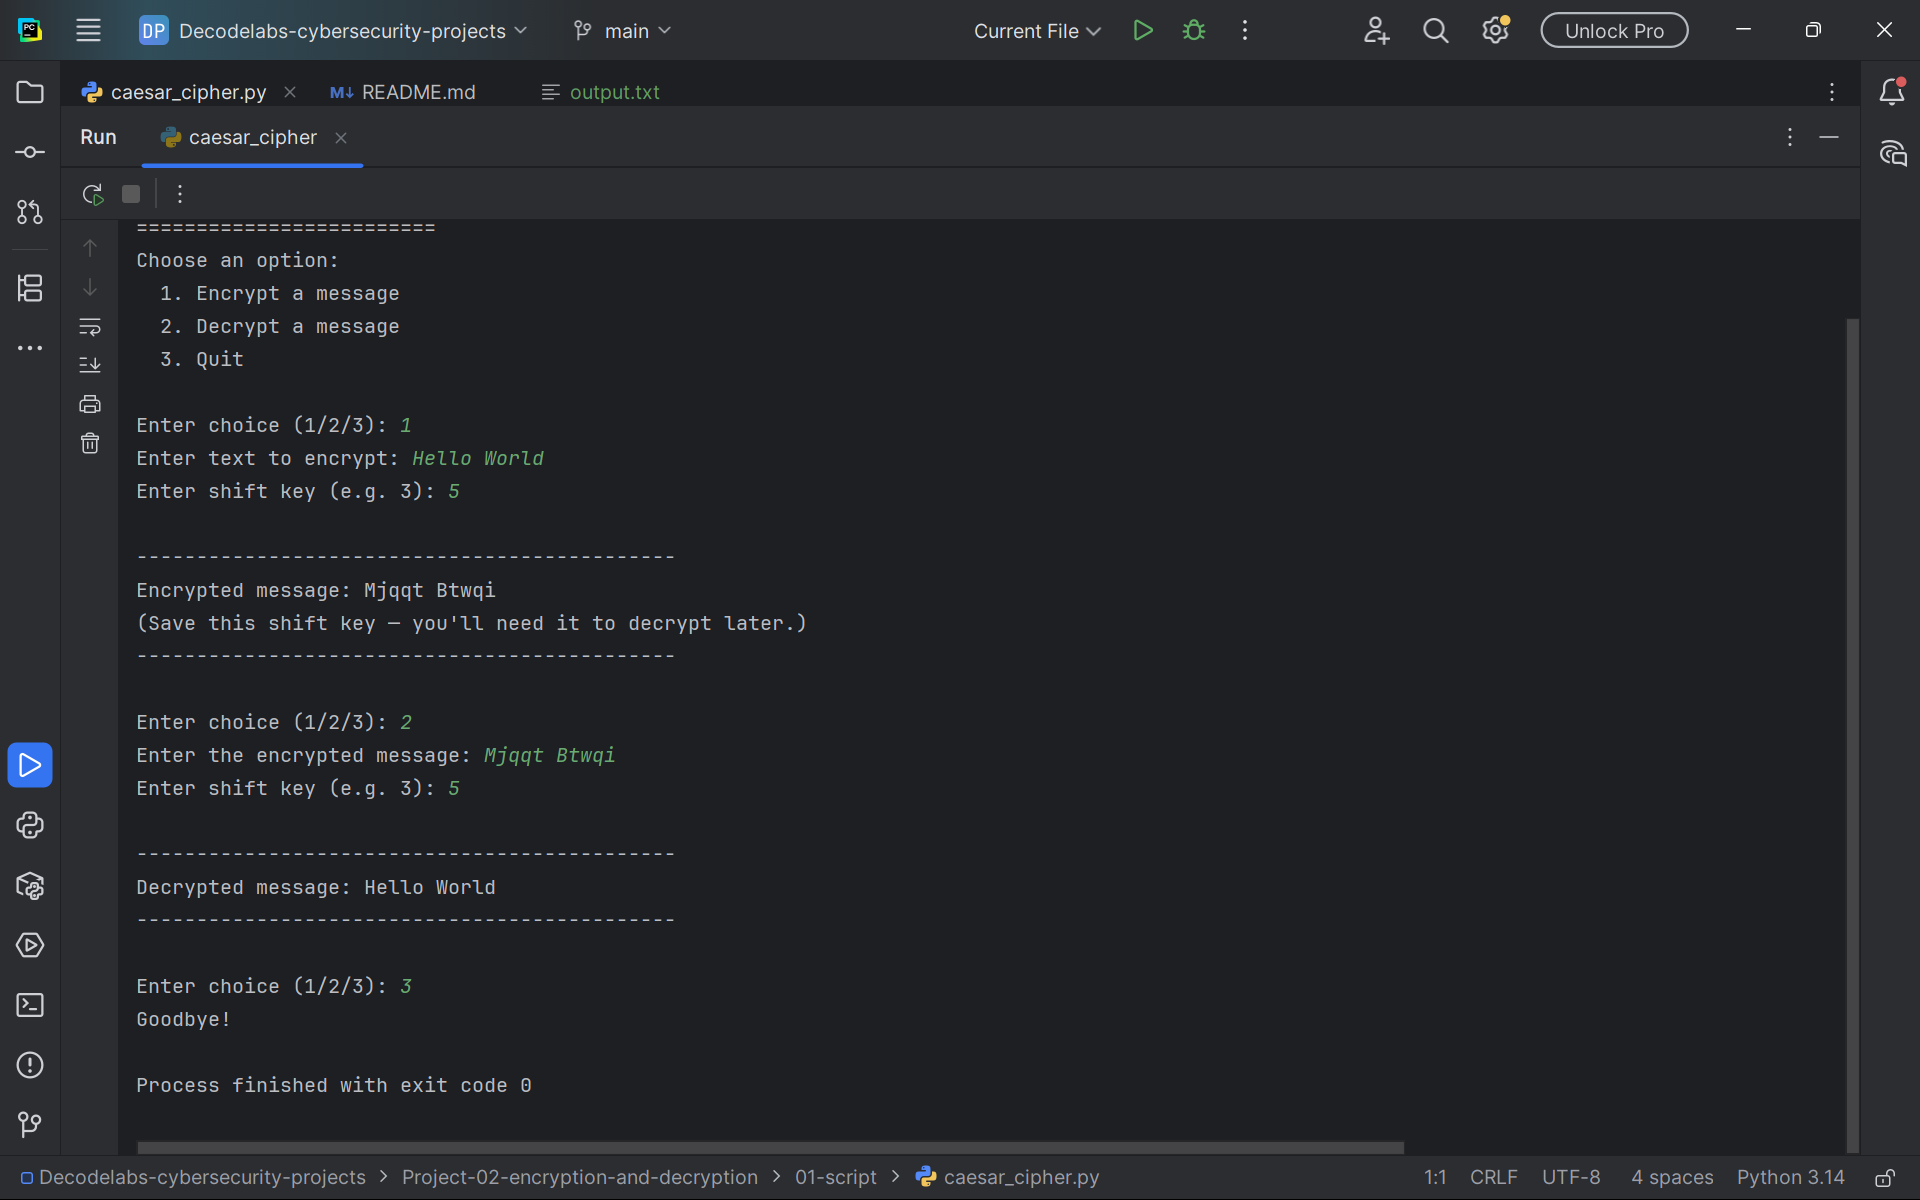
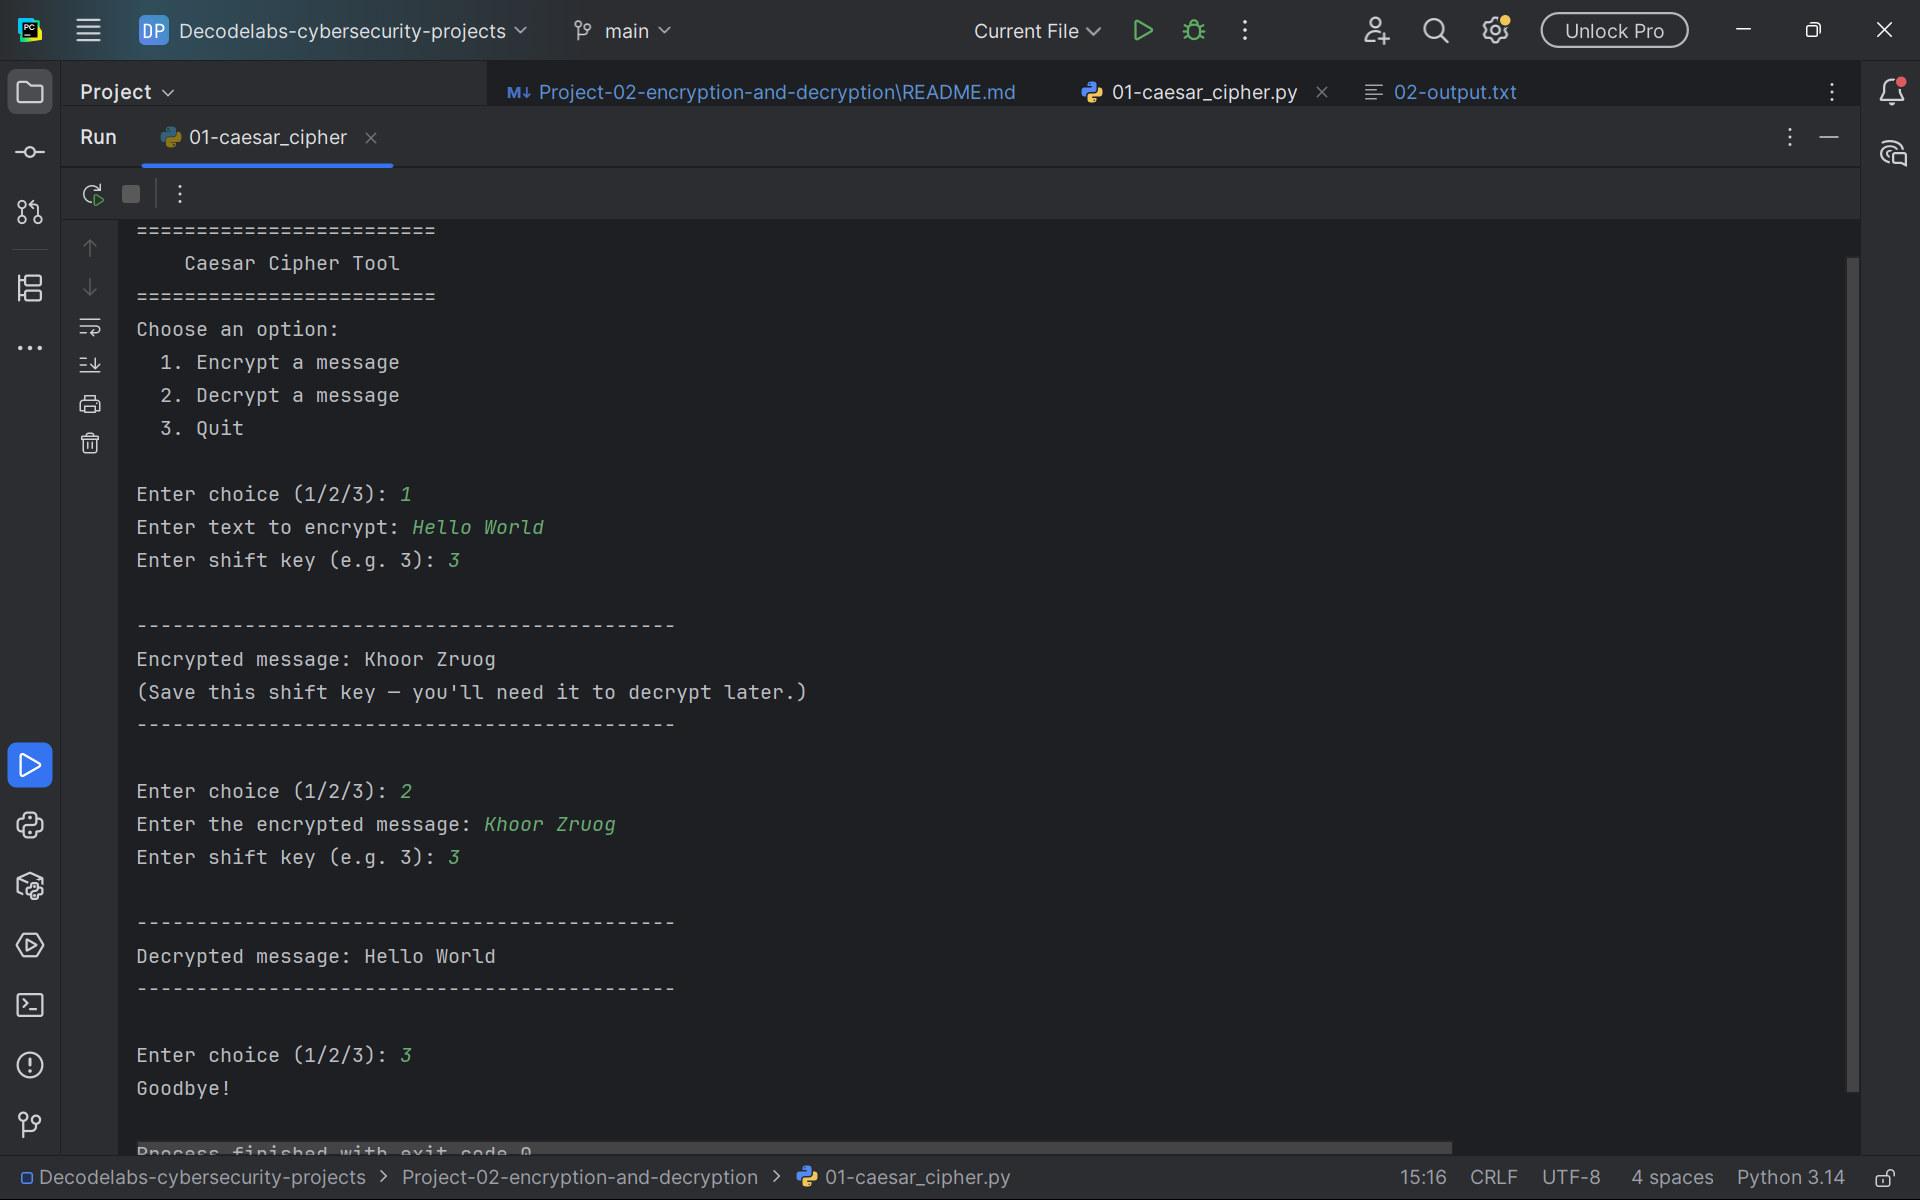
Update README, output, and screenshot for Project 2

diff --git a/Project-02-encryption-and-decryption/README.md b/Project-02-encryption-and-decryption/README.md
@@ -1,0 +1,102 @@
+# Caesar Cipher — Encryption & Decryption 🔐
+
+A Python command-line tool that encrypts and decrypts text using the classic Caesar cipher. This project was built as **Project 2** of the DecodeLabs Cybersecurity Internship (2026 Batch).
+
+## Overview
+
+This tool takes a message and a shift key from the user, then encrypts or decrypts the text by shifting each letter along the alphabet. It's a hands-on introduction to the fundamentals of data confidentiality, transforming readable plaintext into unreadable ciphertext, and reversing the process with the correct key.
+
+## Features
+
+* ✅ Encrypts any message using a user-defined shift key
+* ✅ Decrypts messages back to their original text using the same key
+* ✅ Handles both uppercase and lowercase letters
+* ✅ Leaves spaces, numbers, and punctuation unchanged
+* ✅ Accepts negative shift values as well as positive ones
+* ✅ Validates shift key input, rejecting non-numeric entries
+* ✅ Interactive menu allows multiple encrypt/decrypt operations in one session
+* ✅ Decryption is implemented as the inverse of encryption, avoiding duplicate logic
+
+## How It Works
+
+The checker transforms each letter using modular arithmetic:
+
+| Step    | Description                                                     |
+| ------- | ---------------------------------------------------------------- |
+| Convert | Each letter is converted to its A–Z / a–z position                |
+| Shift   | Position is shifted by the chosen key                             |
+| Wrap    | Result is wrapped using % 26 so it loops around the alphabet      |
+| Rebuild | Shifted position is converted back into a letter                  |
+
+```
+E(x) = (x + shift) % 26      → Encryption
+D(x) = (x - shift) % 26      → Decryption
+```
+
+Since the same key both locks and unlocks the message, this is a symmetric cipher.
+
+## Getting Started
+
+### Prerequisites
+
+* Python 3.7 or higher
+
+### Run the Program
+
+From the project directory, run:
+
+```
+python 01-caesar_cipher.py
+```
+
+The program will show a menu to encrypt, decrypt, or quit.
+
+## Example
+
+```
+=========================
+    Caesar Cipher Tool
+=========================
+Choose an option:
+  1. Encrypt a message
+  2. Decrypt a message
+  3. Quit
+
+Enter choice (1/2/3): 1
+Enter text to encrypt: Hello World
+Enter shift key (e.g. 3): 3
+
+---------------------------------------------
+Encrypted message: Khoor Zruog
+(Save this shift key — you'll need it to decrypt later.)
+---------------------------------------------
+```
+
+## Project Files
+
+| File / Folder         | Description                                          |
+| ---------------------- | ----------------------------------------------------- |
+| 01-caesar_cipher.py    | Main Python program that encrypts and decrypts text   |
+| 02-output.txt          | Sample output produced by the program                 |
+| 03-screenshot.png      | Screenshot demonstrating the program running          |
+| README.md              | Project documentation                                 |
+
+## Tech Stack
+
+* **Language:** Python
+* **Concepts:** ASCII/character manipulation, modular arithmetic, string handling, conditional logic, functions, input validation
+
+## Security Note
+
+The Caesar cipher is not secure by modern standards, with only 25 possible keys, it can be brute-forced instantly, and it preserves letter-frequency patterns, making it vulnerable to frequency analysis. It's used here to learn the fundamentals of substitution ciphers and reversible logic, which form the conceptual foundation for stronger algorithms like AES.
+
+## What I Learned
+
+* How classic substitution ciphers work using ASCII character shifting
+* Applying modular arithmetic to handle alphabet "wraparound"
+* Writing reversible logic — decryption as the inverse of encryption, not separate code
+* Structuring a simple, user-friendly CLI program
+
+## Author
+
+Built by Olamide as part of the [DecodeLabs](https://www.decodelabs.tech) Industrial Training Kit, 2026 Batch.
